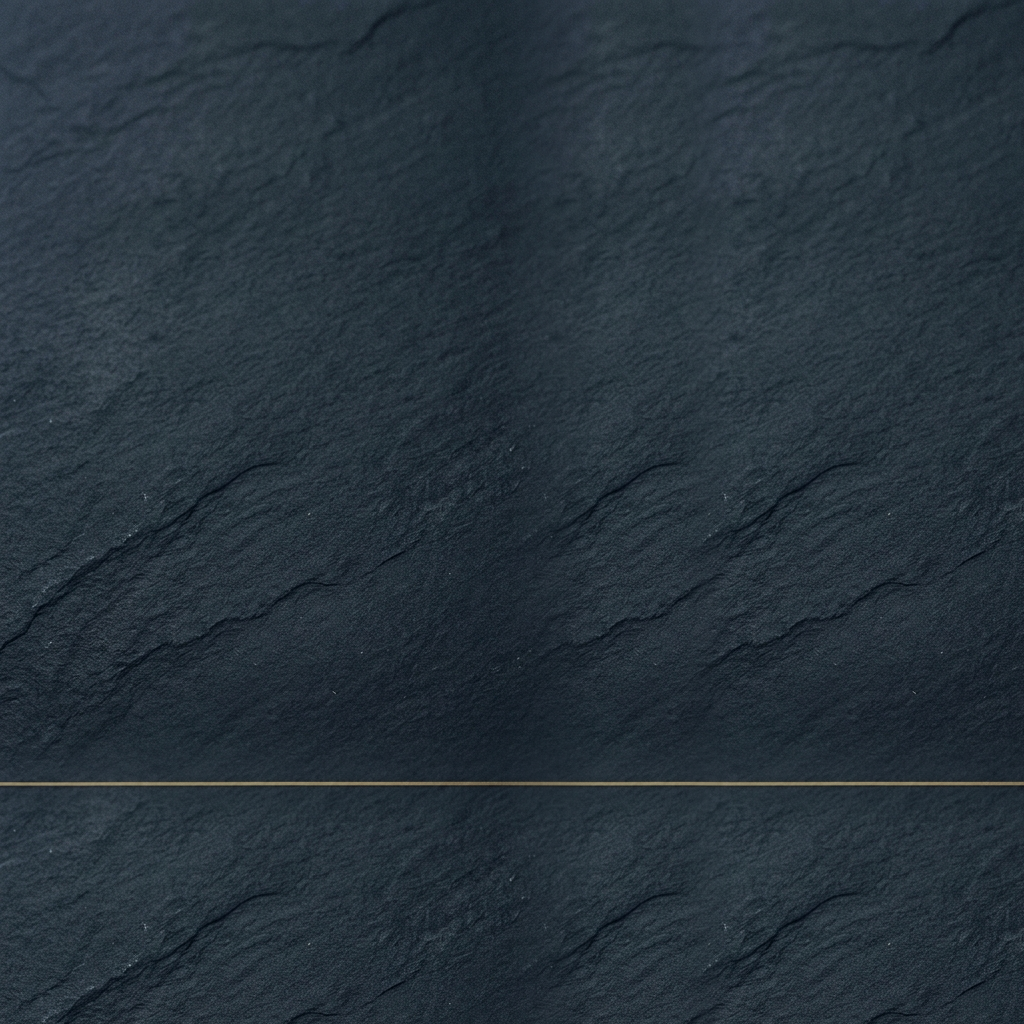
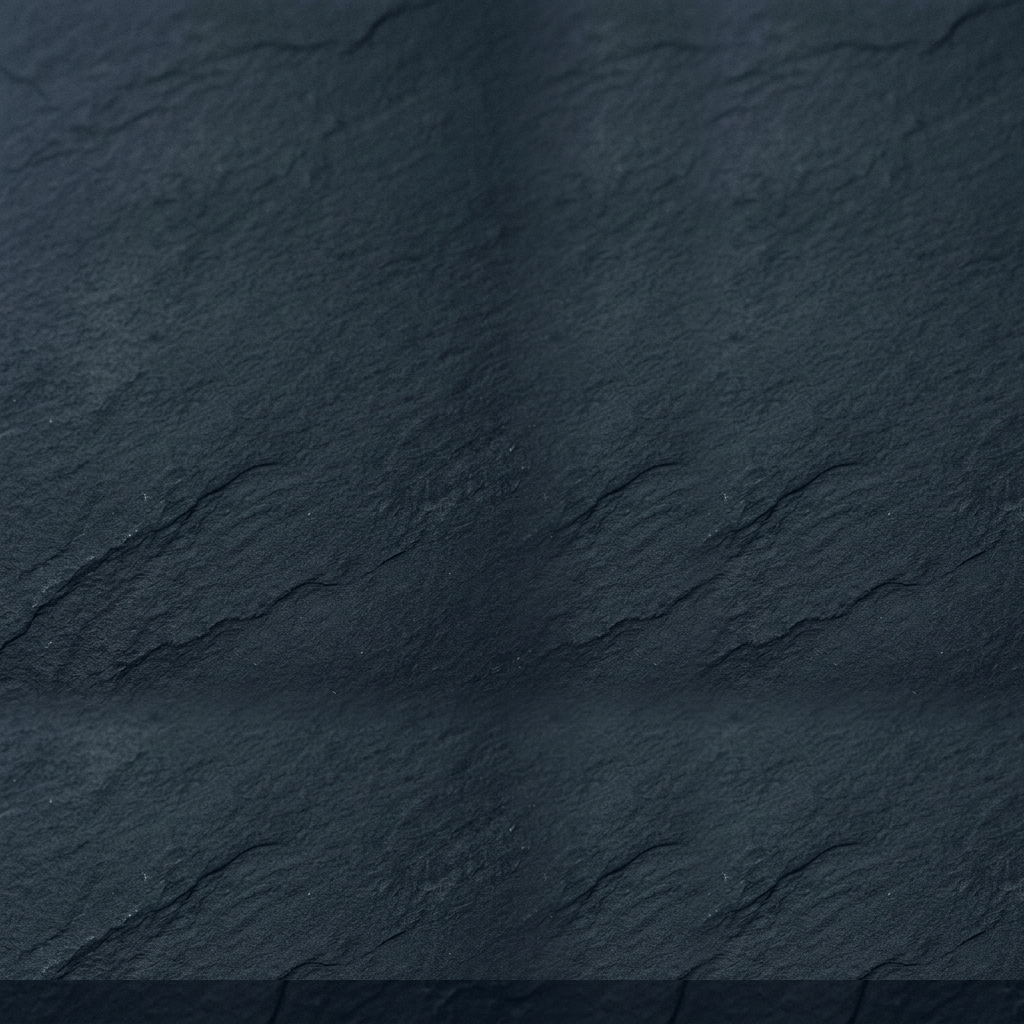
Erase background line completely and center watermark vertically in content block

diff --git a/ai/pdf_generator.py b/ai/pdf_generator.py
@@ -37,8 +37,10 @@ def draw_clean_background(c, width, height, current_slide, total_slides, is_cove
     if os.path.exists(wm_path):
         wm_w = 600
         wm_h = 600
-        # Centrado visual: desplazamos +25px a la derecha para compensar la cola de la "L"
-        c.drawImage(wm_path, ((width - wm_w)/2) + 25, (height - wm_h)/2, width=wm_w, height=wm_h, mask='auto', preserveAspectRatio=True)
+        # Centrado perfecto visualmente en el bloque de contenido (desde la línea dorada hacia arriba)
+        # La línea dorada está en y=150. El centro de ese espacio es 150 + (1080 - 150)/2 = 615.
+        # Por lo tanto, y = 615 - (wm_h / 2) = 615 - 300 = 315.
+        c.drawImage(wm_path, (width - wm_w)/2, 315, width=wm_w, height=wm_h, mask='auto', preserveAspectRatio=True)
 
     # 3. Footer Logo
     # Si es portada, quizás el logo va centrado abajo, o lo dejamos igual. El usuario dijo: 